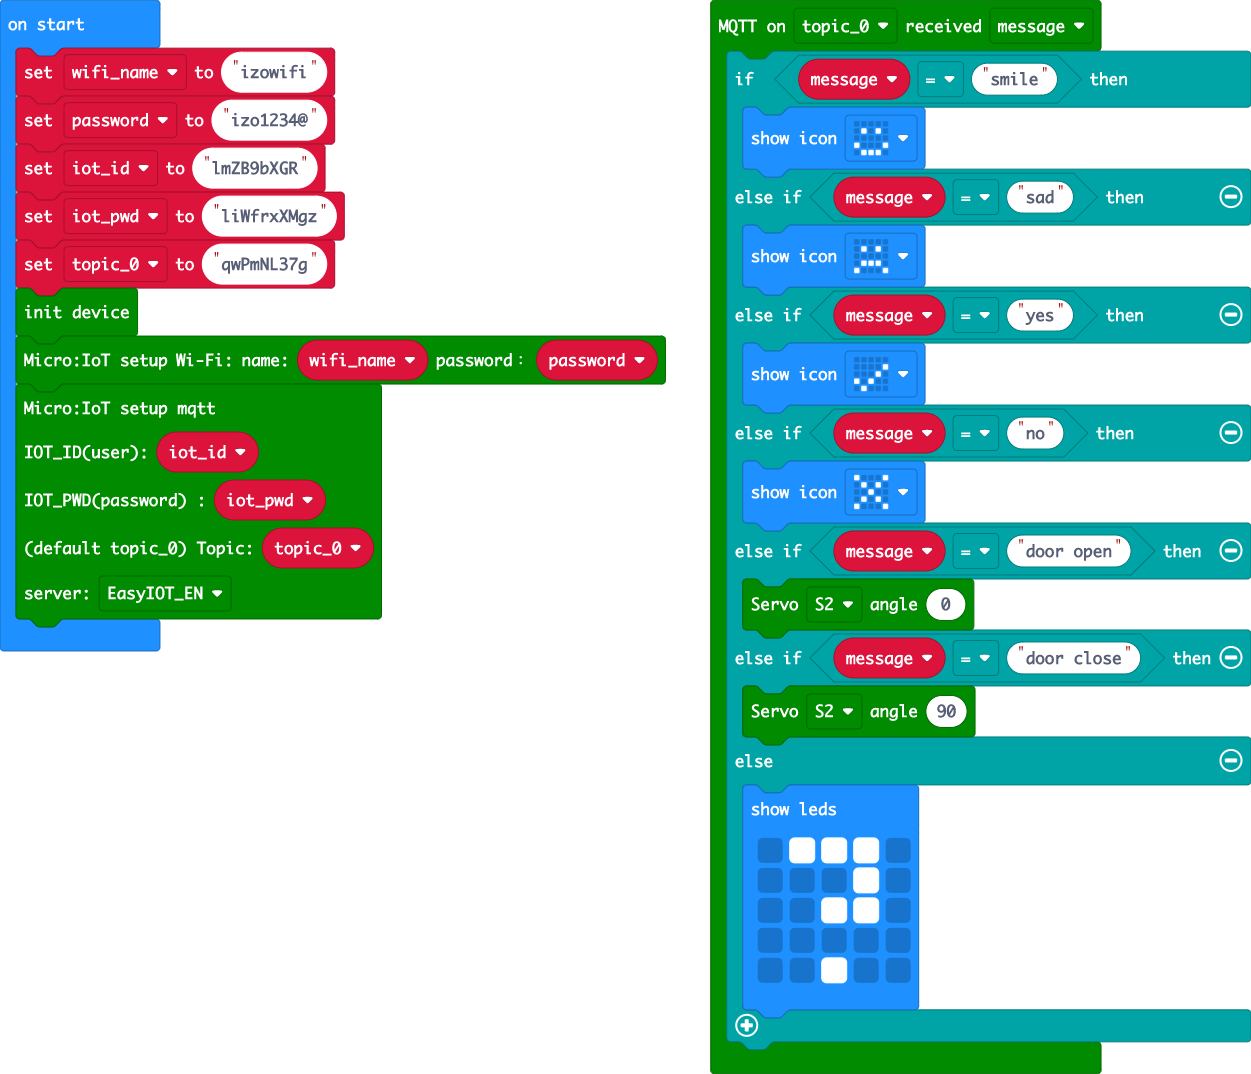
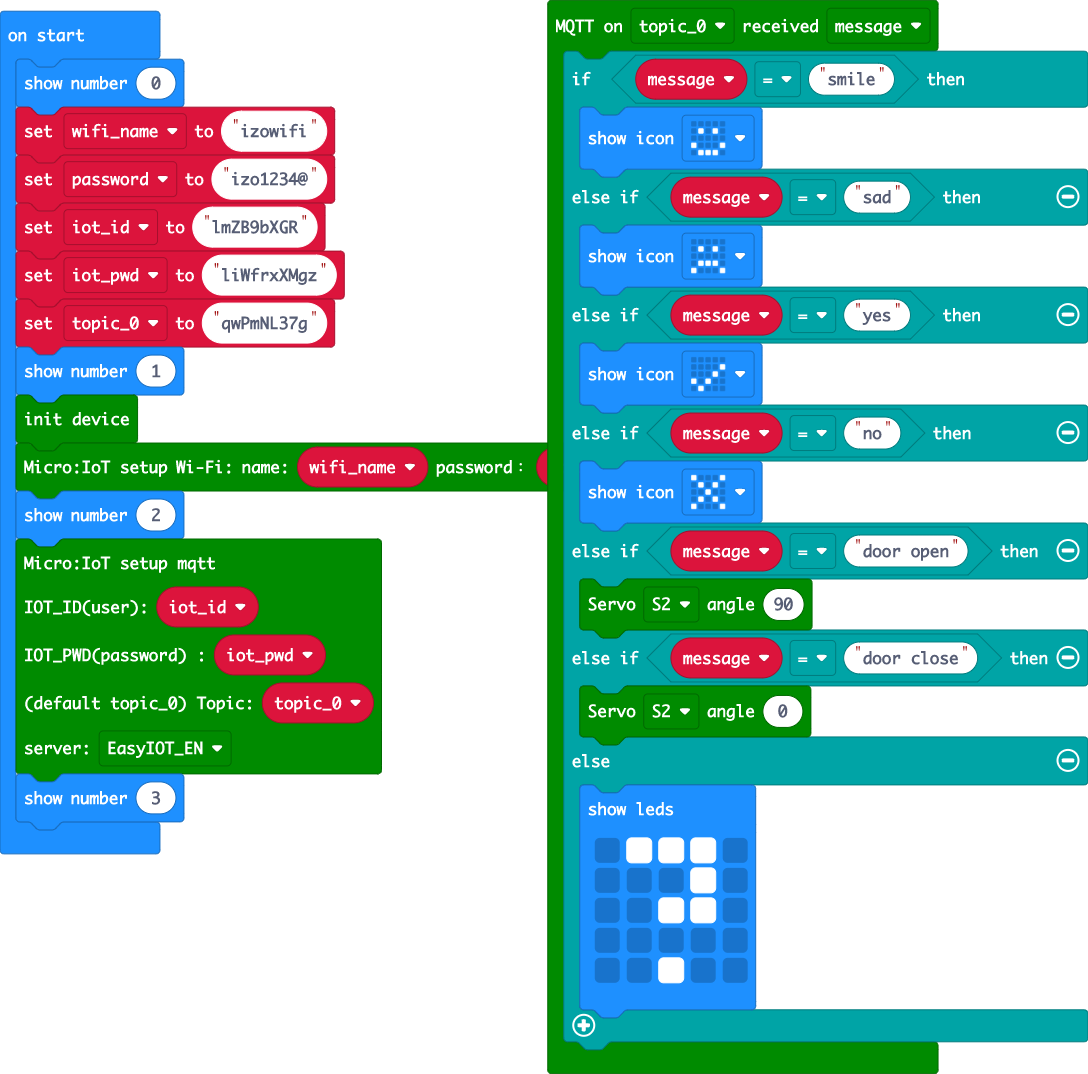
add debug

diff --git a/main.ts b/main.ts
@@ -8,9 +8,9 @@ microIoT.microIoT_MQTT_Event(microIoT.TOPIC.topic_0, function (message) {
     } else if (message == "no") {
         basic.showIcon(IconNames.No)
     } else if (message == "door open") {
-        microIoT.microIoT_ServoRun(microIoT.aServos.S2, 0)
-    } else if (message == "door close") {
         microIoT.microIoT_ServoRun(microIoT.aServos.S2, 90)
+    } else if (message == "door close") {
+        microIoT.microIoT_ServoRun(microIoT.aServos.S2, 0)
     } else {
         basic.showLeds(`
             . # # # .
@@ -21,16 +21,20 @@ microIoT.microIoT_MQTT_Event(microIoT.TOPIC.topic_0, function (message) {
             `)
     }
 })
+basic.showNumber(0)
 let wifi_name = "izowifi"
 let password = "izo1234@"
 let iot_id = "lmZB9bXGR"
 let iot_pwd = "liWfrxXMgz"
 let topic_0 = "qwPmNL37g"
+basic.showNumber(1)
 microIoT.microIoT_initDisplay()
 microIoT.microIoT_WIFI(wifi_name, password)
+basic.showNumber(2)
 microIoT.microIoT_MQTT(
 iot_id,
 iot_pwd,
 topic_0,
 microIoT.SERVERS.English
 )
+basic.showNumber(3)
